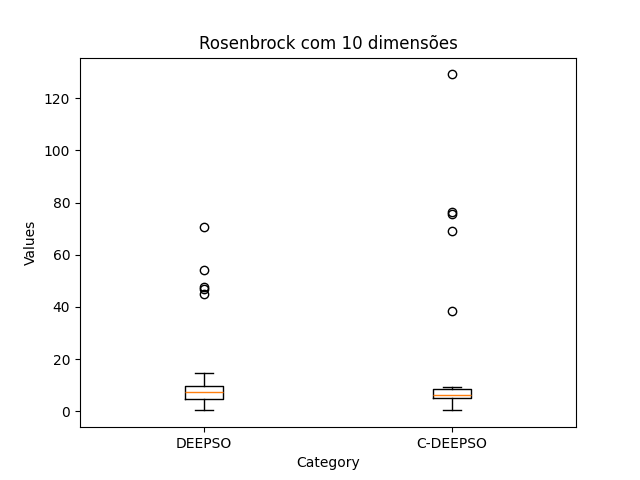
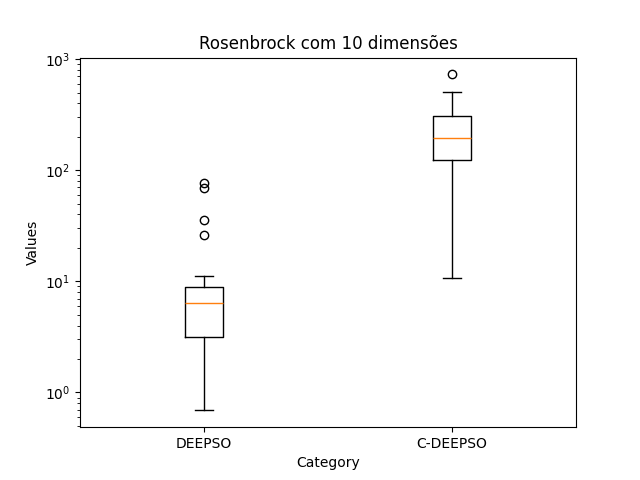
vambora

diff --git a/5final/analise.py b/5final/analise.py
@@ -4,6 +4,7 @@ from mpl_toolkits.mplot3d import Axes3D
 import random
 from final import *
 import time
+from scipy.stats import ttest_ind_from_stats
 
 def roda(algoritmo, funcao, w_i, w_m, w_s, t_mut, t_com, F, dim, limites, num_particulas, max_iter, com_hill_climb, plotar, printa_tudo, opcao):
     if funcao == meu_deepso:
@@ -123,21 +124,21 @@ def analise_geral(exs, teste=False):
     
     print("RODANDO C-DEEPSO 10 DIMENSÕES (ROSENBROCK)")
     cdeepso10_ros_medias, cdeepso10_ros_melhores_valores_por_gen, cdeepso10_ros_melhores_inds_ult_gen_ordenados_por_fitness = analise(exs, meu_deepso, rosenbrock_n,
-                                                                                            w_i=0.6609872678965918, w_m=0.15695173764889203, w_s=0.4003272909999093,
-                                                                                            t_mut=0.0590297803281594, t_com=0.9777566286899031, F=0.38982833318052934,
-                                                                                            num_particulas=62, dim=10)
+                                                                                            w_i=0.21002922456374457, w_m=0.03894880433457305, w_s=0.4492438362995592,
+                                                                                            t_mut=0.019436069163957098, t_com=0.5922906033349694, F=1.1025041161386335,
+                                                                                            num_particulas=27, dim=10)
     if teste == False:
         print("RODANDO C-DEEPSO 30 DIMENSÕES (ROSENBROCK)")
         cdeepso30_ros_medias, cdeepso30_ros_melhores_valores_por_gen, cdeepso30_ros_melhores_inds_ult_gen_ordenados_por_fitness = analise(exs, meu_deepso, rosenbrock_n,
-                                                                                                w_i=0.5504801395493848, w_m=0.06211861240212685, w_s=0.546701319446298,
-                                                                                                t_mut=0.012945757925501232, t_com=0.8733576642755421, F=1.1728642301976058,
-                                                                                                num_particulas=78, dim=30)
+                                                                                                w_i=0.11904852438917952, w_m=0.3310351478310495, w_s=0.10885958961331216,
+                                                                                                t_mut=0.049673492983309274, t_com=0.8539183380313524, F=0.01384373412967433,
+                                                                                                num_particulas=100,  dim=30)
         
         print("RODANDO C-DEEPSO 50 DIMENSÕES (ROSENBROCK)")
         cdeepso50_ros_medias, cdeepso50_ros_melhores_valores_por_gen, cdeepso50_ros_melhores_inds_ult_gen_ordenados_por_fitness = analise(exs, meu_deepso, rosenbrock_n,
-                                                                                                w_i=0.1114611016801606, w_m=0.40846197374492293, w_s=0.017841098280119816, t_mut=0.4240834243320104,
-                                                                                                t_com=0.8466119923547033, F=0.18055411172913124,
-                                                                                                num_particulas=53, dim=50)
+                                                                                                w_i=0.3738701953900034, w_m=0.2684850678490869, w_s=0.01263204158929801,
+                                                                                                t_mut=0.22112719771668227, t_com=0.11106313254757884, F=0.3698309341860955,
+                                                                                                num_particulas=96,   dim=50)
         
         print("RODANDO DEEPSO 10 DIMENSÕES (RASTRIGIN)")
         deepso10_ras_medias, deepso10_ras_melhores_valores_por_gen, deepso10_ras_melhores_inds_ult_gen_ordenados_por_fitness = analise(exs, meu_deepso, rastrigin_n,
@@ -159,57 +160,64 @@ def analise_geral(exs, teste=False):
         
         print("RODANDO C-DEEPSO 10 DIMENSÕES (RASTRIGIN)")
         cdeepso10_ras_medias, cdeepso10_ras_melhores_valores_por_gen, cdeepso10_ras_melhores_inds_ult_gen_ordenados_por_fitness = analise(exs, meu_deepso, rastrigin_n,
-                                                                                                w_i=0.23028145839822917, w_m=0.6077386196025945, w_s=0.17419148166313206,
-                                                                                                t_mut=0.18967852523908402, t_com=0.258995583820822, F=0.46920475962813457,
-                                                                                                num_particulas=100, dim=10)
+                                                                                                w_i=0.3755082678452043, w_m=0.07823468990809129, w_s=0.2310259757822647,
+                                                                                                t_mut=0.03131878729340136, t_com=0.30063033310105064, F=0.35114252207517493,
+                                                                                                num_particulas=60,  dim=10)
         
         print("RODANDO C-DEEPSO 30 DIMENSÕES (RASTRIGIN)")
         cdeepso30_ras_medias, cdeepso30_ras_melhores_valores_por_gen, cdeepso30_ras_melhores_inds_ult_gen_ordenados_por_fitness = analise(exs, meu_deepso, rastrigin_n,
-                                                                                                w_i=0.16898751256655437, w_m=0.6232780680674803, w_s=0.19111567375932442,
-                                                                                                t_mut=0.12439632152401968, t_com=0.07894166551435769, F=0.15918484291703436,
-                                                                                                num_particulas=85, dim=30)
+                                                                                                w_i=0.3179615128927915, w_m=0.15052579505157043, w_s=0.3974876216221927,
+                                                                                                t_mut=0.07407692387870876, t_com=0.1930975569008346, F=0.3824789579043441,
+                                                                                                num_particulas=70,  dim=30)
         
         print("RODANDO C-DEEPSO 50 DIMENSÕES (RASTRIGIN)")
         cdeepso50_ras_medias, cdeepso50_ras_melhores_valores_por_gen, cdeepso50_ras_melhores_inds_ult_gen_ordenados_por_fitness = analise(exs, meu_deepso, rastrigin_n,
-                                                                                                w_i=0.43649082410765777, w_m=0.7094009197294928, w_s=0.5380340743940113,
-                                                                                                t_mut=0.025001264433285795, t_com=0.8153776836024773, F=0.1759557559881973,
-                                                                                                num_particulas=60, dim=50)
+                                                                                                w_i=0.0725609039905108, w_m=0.14735959223222378, w_s=0.42539120954474685,
+                                                                                                t_mut=0.04489736152356841, t_com=0.6751728914348668, F=0.5859934595779772,
+                                                                                                num_particulas=62,  dim=50)
         
-        # Rosenbrock com 10 dimensões
-        plota_algoritmos(deepso10_ros_medias, cdeepso10_ros_medias, deepso10_ros_melhores_valores_por_gen, cdeepso10_ros_melhores_valores_por_gen, 
-                        deepso10_ros_melhores_inds_ult_gen_ordenados_por_fitness, cdeepso10_ros_melhores_inds_ult_gen_ordenados_por_fitness, "Rosenbrock com 10 dimensões")
+    print("\nRosenbrock com 10 dimensões")
+    plota_algoritmos(deepso10_ros_medias, cdeepso10_ros_medias, deepso10_ros_melhores_valores_por_gen, cdeepso10_ros_melhores_valores_por_gen, 
+                    deepso10_ros_melhores_inds_ult_gen_ordenados_por_fitness, cdeepso10_ros_melhores_inds_ult_gen_ordenados_por_fitness, "Rosenbrock com 10 dimensões")
 
-        boxplot([deepso10_ros_melhores_inds_ult_gen_ordenados_por_fitness, cdeepso10_ros_melhores_inds_ult_gen_ordenados_por_fitness], "Rosenbrock com 10 dimensões")
+    boxplot([deepso10_ros_melhores_inds_ult_gen_ordenados_por_fitness, cdeepso10_ros_melhores_inds_ult_gen_ordenados_por_fitness], "Rosenbrock com 10 dimensões")
+    t_testa(deepso10_ros_melhores_inds_ult_gen_ordenados_por_fitness, cdeepso10_ros_melhores_inds_ult_gen_ordenados_por_fitness)
 
-        # Rosenbrock com 30 dimensões
+    if teste == False:
+        print("\nRosenbrock com 30 dimensões")
         plota_algoritmos(deepso30_ros_medias, cdeepso30_ros_medias, deepso30_ros_melhores_valores_por_gen, cdeepso30_ros_melhores_valores_por_gen, 
                         deepso30_ros_melhores_inds_ult_gen_ordenados_por_fitness, cdeepso30_ros_melhores_inds_ult_gen_ordenados_por_fitness, "Rosenbrock com 30 dimensões")
 
         boxplot([deepso30_ros_melhores_inds_ult_gen_ordenados_por_fitness, cdeepso30_ros_melhores_inds_ult_gen_ordenados_por_fitness], "Rosenbrock com 30 dimensões")
+        t_testa(deepso30_ros_melhores_inds_ult_gen_ordenados_por_fitness, cdeepso30_ros_melhores_inds_ult_gen_ordenados_por_fitness)
 
-        # Rosenbrock com 50 dimensões
+        print("\nRosenbrock com 50 dimensões")
         plota_algoritmos(deepso50_ros_medias, cdeepso50_ros_medias, deepso50_ros_melhores_valores_por_gen, cdeepso50_ros_melhores_valores_por_gen, 
                         deepso50_ros_melhores_inds_ult_gen_ordenados_por_fitness, cdeepso50_ros_melhores_inds_ult_gen_ordenados_por_fitness, "Rosenbrock com 50 dimensões")
 
         boxplot([deepso50_ros_melhores_inds_ult_gen_ordenados_por_fitness, cdeepso50_ros_melhores_inds_ult_gen_ordenados_por_fitness], "Rosenbrock com 50 dimensões")
+        t_testa(deepso50_ros_melhores_inds_ult_gen_ordenados_por_fitness, cdeepso50_ros_melhores_inds_ult_gen_ordenados_por_fitness)
 
-        # Rastrigin com 10 dimensões
+        print("\nRastrigin com 10 dimensões")
         plota_algoritmos(deepso10_ras_medias, cdeepso10_ras_medias, deepso10_ras_melhores_valores_por_gen, cdeepso10_ras_melhores_valores_por_gen, 
                         deepso10_ras_melhores_inds_ult_gen_ordenados_por_fitness, cdeepso10_ras_melhores_inds_ult_gen_ordenados_por_fitness, "Rastrigin com 10 dimensões")
 
         boxplot([deepso10_ras_melhores_inds_ult_gen_ordenados_por_fitness, cdeepso10_ras_melhores_inds_ult_gen_ordenados_por_fitness], "Rastrigin com 10 dimensões")
-
-        # Rastrigin com 30 dimensões
+        t_testa(deepso10_ras_melhores_inds_ult_gen_ordenados_por_fitness, cdeepso10_ras_melhores_inds_ult_gen_ordenados_por_fitness)
+        
+        print("\nRastrigin com 30 dimensões")
         plota_algoritmos(deepso30_ras_medias, cdeepso30_ras_medias, deepso30_ras_melhores_valores_por_gen, cdeepso30_ras_melhores_valores_por_gen, 
                         deepso30_ras_melhores_inds_ult_gen_ordenados_por_fitness, cdeepso30_ras_melhores_inds_ult_gen_ordenados_por_fitness, "Rastrigin com 30 dimensões")
 
         boxplot([deepso30_ras_melhores_inds_ult_gen_ordenados_por_fitness, cdeepso30_ras_melhores_inds_ult_gen_ordenados_por_fitness], "Rastrigin com 30 dimensões")
+        t_testa(deepso30_ras_melhores_inds_ult_gen_ordenados_por_fitness, cdeepso30_ras_melhores_inds_ult_gen_ordenados_por_fitness)
 
-        # Rastrigin com 50 dimensões
+        print("\nRastrigin com 50 dimensões")
         plota_algoritmos(deepso50_ras_medias, cdeepso50_ras_medias, deepso50_ras_melhores_valores_por_gen, cdeepso50_ras_melhores_valores_por_gen, 
                         deepso50_ras_melhores_inds_ult_gen_ordenados_por_fitness, cdeepso50_ras_melhores_inds_ult_gen_ordenados_por_fitness, "Rastrigin com 50 dimensões")
 
         boxplot([deepso50_ras_melhores_inds_ult_gen_ordenados_por_fitness, cdeepso50_ras_melhores_inds_ult_gen_ordenados_por_fitness], "Rastrigin com 50 dimensões")
+        t_testa(deepso50_ras_melhores_inds_ult_gen_ordenados_por_fitness, cdeepso50_ras_melhores_inds_ult_gen_ordenados_por_fitness)
 
         return [deepso10_ros_melhores_inds_ult_gen_ordenados_por_fitness, cdeepso10_ros_melhores_inds_ult_gen_ordenados_por_fitness,
                 deepso30_ros_melhores_inds_ult_gen_ordenados_por_fitness, cdeepso30_ros_melhores_inds_ult_gen_ordenados_por_fitness,
@@ -236,14 +244,14 @@ def plota_algoritmos(medias1, medias2, melhores_valores_por_gen1, melhores_valor
     plt.show()
 
     print()
-    print("Dados sobre os melhores indivíduos nas últimas gerações das 30 execuções do deepso:")
+    print("Dados sobre os melhores indivíduos nas últimas gerações das 30 execuções do DEEPSO:")
     print(f"Média: {medias1[-1]}")
     print(f"Desvio Padrão: {np.std(melhores_valores_por_gen1[-1])}")
     print(f"Mediana: {np.median(melhores_valores_por_gen1[-1])}")
     print(f"Indivíduos que representam a Mediana: {melhores_inds_ult_gen_ordenados_por_fitness1[14]}, {melhores_inds_ult_gen_ordenados_por_fitness1[15]}")
     print("Como temos 30 execuções (número par), o valor da mediana corresponde à média do fitness dos dois pontos acima")
 
-    print("\nDados sobre os melhores indivíduos nas últimas gerações das 30 execuções do deepso_hc:")
+    print("\nDados sobre os melhores indivíduos nas últimas gerações das 30 execuções do C-DEEPSO:")
     print(f"Média: {medias2[-1]}")
     print(f"Desvio Padrão: {np.std(melhores_valores_por_gen2[-1])}")
     print(f"Mediana: {np.median(melhores_valores_por_gen2[-1])}")
@@ -264,6 +272,23 @@ def plota_algoritmos(medias1, medias2, melhores_valores_por_gen1, melhores_valor
 
     # print(log_hc_medias)
 
+def t_testa(melhores_30_deepso, melhores_30_cdeepso):
+    # Calculate summary statistics for group1
+    mean1 = np.mean(melhores_30_deepso)
+    std1 = np.std(melhores_30_deepso, ddof=1)  # Use ddof=1 to get the sample standard deviation
+    n1 = len(melhores_30_deepso)
+
+    # Calculate summary statistics for group2
+    mean2 = np.mean(melhores_30_cdeepso)
+    std2 = np.std(melhores_30_cdeepso, ddof=1)
+    n2 = len(melhores_30_cdeepso)
+
+    # Perform the t-test using ttest_ind_from_stats
+    t_stat, p_value = ttest_ind_from_stats(mean1, std1, n1, mean2, std2, n2)
+
+    print(f"T-statistic: {t_stat}")
+    print(f"P-value: {p_value}")
+
 def boxplot(data, titulo):
     bp1 = []
     bp2 = []
@@ -282,18 +307,18 @@ def boxplot(data, titulo):
     plt.savefig(f'5final/graficos/boxplot_{titulo}.png')
     plt.show()
 
-roda(meu_cdeepso, rosenbrock_n, w_i=0.1936384307793284, w_m=0.3640416913945523, w_s=0.4423198778261193, t_mut=0.32984172878949947, t_com=0.5417890328667972, F=1.8,
-            dim=10, limites=[-5, 5], num_particulas=30, max_iter=100,
-            com_hill_climb=False, plotar=False, printa_tudo=True, opcao=1)
+# roda(meu_cdeepso, rosenbrock_n, w_i=0.21002922456374457, w_m=0.03894880433457305, w_s=0.4492438362995592, t_mut=0.019436069163957098, t_com=0.5922906033349694, F=1.1025041161386335, num_particulas=27,
+#             dim=10, limites=[-5, 5], max_iter=100,
+#             com_hill_climb=False, plotar=False, printa_tudo=True, opcao=1)
 
-roda(meu_cdeepso, rosenbrock_n, w_i=0.1936384307793284, w_m=0.3640416913945523, w_s=0.4423198778261193, t_mut=0.32984172878949947, t_com=0.5417890328667972, F=1.8,
-            dim=10, limites=[-5, 5], num_particulas=30, max_iter=100,
-            com_hill_climb=False, plotar=False, printa_tudo=True, opcao=2)
+# roda(meu_cdeepso, rosenbrock_n, w_i=0.21002922456374457, w_m=0.03894880433457305, w_s=0.4492438362995592, t_mut=0.019436069163957098, t_com=0.5922906033349694, F=1.1025041161386335, num_particulas=27,
+#             dim=10, limites=[-5, 5], max_iter=100,
+#             com_hill_climb=False, plotar=False, printa_tudo=True, opcao=2)
 
 
-# start = time.time()
-# analise_geral(30)
-# print(f"O código levou {time.time()-start} segundos")
+start = time.time()
+analise_geral(30, teste=False)
+print(f"O código levou {time.time()-start} segundos")
 
 # 'w_i': 0.49407190293404785, 'w_m': 0.5110297319183723, 'w_s': 0.8376070505693844, 't_mut': 0.058184368025790606, 't_com': 0.12113239780216252
 # roda(meu_deepso, rosenbrock_n, w_i=0.49407190293404785, w_m=0.5110297319183723,

diff --git a/5final/final.py b/5final/final.py
@@ -62,6 +62,13 @@ def transpoe(arr):
             lista[i].append(arr[i])
     return np.array(lista)
 
+def transpoe_grande(arr):
+    lista = []
+    for i in range(len(arr)):
+        lista.append([])
+        lista[i].append(arr[i])
+    return lista
+
 def plot(vetores, limites, dim, funcao):
     fig = plt.figure(figsize=(16, 8))
     ax = fig.add_subplot(111, projection='3d')
@@ -174,21 +181,12 @@ def meu_deepso(funcao, w_i, w_m, w_s, t_mut, t_com, com_hill_climb=False, dim=2,
             parte2 = w_m_mut * (x_bests[p] - posicoes[p])
 
             pre1_parte3 = (x_gb_mut - posicoes[p])
-            # print(f"pre1_parte3: {pre1_parte3}")
             pre2_parte3 = transpoe(pre1_parte3)
-            # print(f"pre2_parte3: {pre2_parte3}")
 
-            # print(f"C: {C}")
             pre3_parte3 = C @ pre2_parte3
-            # print(f"pre3_parte3: {pre3_parte3}")
             pre4_parte3 = transpoe(pre3_parte3)
-            # print(f"pre4_parte3: {pre4_parte3}")
 
             parte3 = w_s_mut * pre4_parte3
-            # print(f"parte1: {parte1}")
-            # print(f"parte2: {parte2}")
-            # print(f"parte3: {parte3}")
-            # print()
             velocidades[p] = parte1 + parte2 + parte3
 
             # Atualiza a posição
@@ -216,7 +214,7 @@ def meu_deepso(funcao, w_i, w_m, w_s, t_mut, t_com, com_hill_climb=False, dim=2,
                 x_gb_fitness = valores_fitness[p]
 
         log_hc = ""
-        if iter >= 20 and iter < 30 and com_hill_climb == True:
+        if iter >= 20 and iter < 80 and com_hill_climb == True:
             fator_max = x_gb_fitness
             pos_hc, fitness_hc, funcionou = hill_climb(funcao, dim, x_gb, x_gb_fitness, fator_max)
             log_hc = x_gb_fitness - fitness_hc
@@ -246,7 +244,7 @@ def meu_cdeepso(funcao, w_i, w_m, w_s, t_mut, t_com, F, com_hill_climb=False, di
     x_bests = np.copy(posicoes)
     melhores_fitness = np.copy(valores_fitness)
     x_gb = np.copy(x_bests[np.argmin(melhores_fitness)])
-    memoria_b = transpoe(np.copy(posicoes))
+    memoria_b = transpoe_grande(np.copy(posicoes))
     x_gb_fitness = funcao(x_gb, dim)
 
     # Plota a população no plano 3D
@@ -277,7 +275,9 @@ def meu_cdeepso(funcao, w_i, w_m, w_s, t_mut, t_com, F, com_hill_climb=False, di
             if opcao == 1:
                 # Cria o Xst
                 # Xst = Xr + F(Xbest − Xr) + F(Xr1 − Xr2)
-                x_r = (np.copy(random.choice(posicoes)) + np.copy(random.choice(memoria_b[p]))) / 2
+                pos_random = np.copy(random.choice(posicoes))
+                pos_random_b = np.copy(random.choice(np.array(memoria_b[p])))
+                x_r = (pos_random + pos_random_b) / 2
                 if len(memoria_b[p]) >= 3:
                     x_r1 = np.copy(random.choice(memoria_b[p]))
                     x_r2 = np.copy(random.choice(memoria_b[p]))
@@ -287,8 +287,8 @@ def meu_cdeepso(funcao, w_i, w_m, w_s, t_mut, t_com, F, com_hill_climb=False, di
                 x_st = np.copy(x_r) + F * (x_bests[p] - x_r) + F * (x_r1 - x_r2)
 
             elif opcao == 2:
-                x_r = (np.copy(random.choice(posicoes)) + np.copy(random.choice(memoria_b[p]))) / 2
-                if funcao(x_r) < funcao(posicoes[p]):
+                x_r = (np.copy(random.choice(posicoes)) + np.copy(random.choice(np.array(memoria_b[p])))) / 2
+                if funcao(x_r, dim) < funcao(posicoes[p], dim):
                     x_st = x_bests[p] + F * (x_r - posicoes[p])
                 else:
                     x_st = x_bests[p] + F * (posicoes[p] - x_r)
@@ -342,7 +342,7 @@ def meu_cdeepso(funcao, w_i, w_m, w_s, t_mut, t_com, F, com_hill_climb=False, di
                 x_gb_fitness = valores_fitness[p]
 
         log_hc = ""
-        if iter >= 20 and iter < 30 and com_hill_climb == True:
+        if iter >= 20 and iter < 80 and com_hill_climb == True:
             fator_max = x_gb_fitness
             pos_hc, fitness_hc, funcionou = hill_climb(funcao, dim, x_gb, x_gb_fitness, fator_max)
             log_hc = x_gb_fitness - fitness_hc

diff --git a/5final/hiperparametros.py b/5final/hiperparametros.py
@@ -25,7 +25,8 @@ def objective(trial, algoritmo, funcao, dim):
     # max_iter = trial.suggest_int('max_iter', 50, 500)
 
     best_fitness = float('inf')
-    if algoritmo == meu_cdeepso: cdeepso_gen = meu_cdeepso(funcao, w_i, w_m, w_s, t_mut, t_com, F, com_hill_climb=True, dim=dim, num_particulas=num_particulas, max_iter=100)
+    if algoritmo == meu_cdeepso: cdeepso_gen = meu_cdeepso(funcao, w_i, w_m, w_s, t_mut, t_com, F, com_hill_climb=True,
+                                                           dim=dim, num_particulas=num_particulas, max_iter=100, opcao=1)
     else: cdeepso_gen = meu_deepso(funcao, w_i, w_m, w_s, t_mut, t_com, com_hill_climb=True, dim=dim, num_particulas=num_particulas, max_iter=100)
     
     for x_gb, x_gb_fitness, _ in cdeepso_gen:
